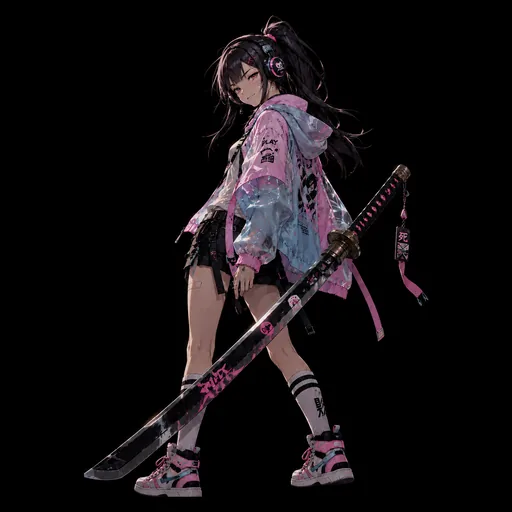
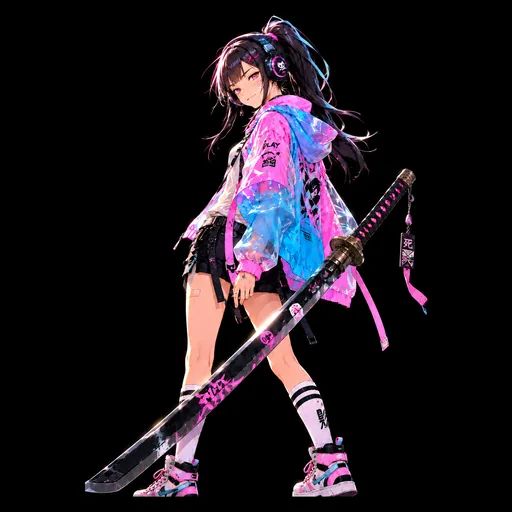
«Шип Тишины» и посветлевшая «Ая Курона» — коллекция закрыта
s09 «Шип Тишины» получил арт, у L05 «Ая Курона» заменён на светлую версию: на
прежней в тёмной карточной рамке фигура почти не читалась.

На этом арт есть у ВСЕХ 37 собираемых карт. Без него осталась одна zC0
«Перезарядка» — она обучающая, в коллекцию не попадает вовсе (noColl), и
рисовать её незачем.

Оба прошли ту же сборку, что и остальные: вписывание в квадрат по сюжету,
плато чистого чёрного по краю и рампа внутрь. Проверено счётом: худший край по
всем 74 файлам — 2/255, то есть рамки не будет ни у одной.

1158/1158, групп 15/15. Метка сборки v=9.

Changed region(s): [[0.1562, 0.0312, 0.8438, 0.9688]]

diff --git a/index.html b/index.html
@@ -29,18 +29,18 @@
 
      Стили разрезаны по темам. ПОРЯДОК ССЫЛОК ЗНАЧИМ: правила одной силы
      разрешаются по нему. Адаптив идёт последним, чтобы выигрывать всегда. -->
-<link rel="stylesheet" href="css/01-base.css?v=8">
-  <link rel="stylesheet" href="css/02-menu.css?v=8">
-  <link rel="stylesheet" href="css/03-gacha.css?v=8">
-  <link rel="stylesheet" href="css/04-cards.css?v=8">
-  <link rel="stylesheet" href="css/05-deck.css?v=8">
-  <link rel="stylesheet" href="css/06-battle.css?v=8">
-  <link rel="stylesheet" href="css/07-story.css?v=8">
-  <link rel="stylesheet" href="css/08-overlays.css?v=8">
-  <link rel="stylesheet" href="css/09-chat.css?v=8">
-  <link rel="stylesheet" href="css/10-settings.css?v=8">
-  <link rel="stylesheet" href="css/11-map.css?v=8">
-  <link rel="stylesheet" href="css/12-responsive.css?v=8">
+<link rel="stylesheet" href="css/01-base.css?v=9">
+  <link rel="stylesheet" href="css/02-menu.css?v=9">
+  <link rel="stylesheet" href="css/03-gacha.css?v=9">
+  <link rel="stylesheet" href="css/04-cards.css?v=9">
+  <link rel="stylesheet" href="css/05-deck.css?v=9">
+  <link rel="stylesheet" href="css/06-battle.css?v=9">
+  <link rel="stylesheet" href="css/07-story.css?v=9">
+  <link rel="stylesheet" href="css/08-overlays.css?v=9">
+  <link rel="stylesheet" href="css/09-chat.css?v=9">
+  <link rel="stylesheet" href="css/10-settings.css?v=9">
+  <link rel="stylesheet" href="css/11-map.css?v=9">
+  <link rel="stylesheet" href="css/12-responsive.css?v=9">
 </head>
 <body>
 
@@ -308,20 +308,20 @@
 <!-- Скрипт разрезан по темам. ПОРЯДОК ЗНАЧИМ: обычные скрипты выполняются
      подряд и вместе дают ровно тот порядок, что был в одном файле.
      Запуск идёт последним. -->
-<script src="js/01-core.js?v=8"></script>
-<script src="js/02-data.js?v=8"></script>
-<script src="js/03-fx.js?v=8"></script>
-<script src="js/04-state.js?v=8"></script>
-<script src="js/05-story.js?v=8"></script>
-<script src="js/06-menu.js?v=8"></script>
-<script src="js/07-cards.js?v=8"></script>
-<script src="js/08-collection.js?v=8"></script>
-<script src="js/09-chat.js?v=8"></script>
-<script src="js/10-rules.js?v=8"></script>
-<script src="js/11-battle.js?v=8"></script>
-<script src="js/12-training.js?v=8"></script>
-<script src="js/13-map.js?v=8"></script>
-<script src="js/14-ui.js?v=8"></script>
-<script src="js/15-boot.js?v=8"></script>
+<script src="js/01-core.js?v=9"></script>
+<script src="js/02-data.js?v=9"></script>
+<script src="js/03-fx.js?v=9"></script>
+<script src="js/04-state.js?v=9"></script>
+<script src="js/05-story.js?v=9"></script>
+<script src="js/06-menu.js?v=9"></script>
+<script src="js/07-cards.js?v=9"></script>
+<script src="js/08-collection.js?v=9"></script>
+<script src="js/09-chat.js?v=9"></script>
+<script src="js/10-rules.js?v=9"></script>
+<script src="js/11-battle.js?v=9"></script>
+<script src="js/12-training.js?v=9"></script>
+<script src="js/13-map.js?v=9"></script>
+<script src="js/14-ui.js?v=9"></script>
+<script src="js/15-boot.js?v=9"></script>
 </body>
 </html>

diff --git a/js/07-cards.js b/js/07-cards.js
@@ -70,11 +70,12 @@ const CARD_ART=new Set([
   'c01','c02','c03','c05','c08','c09','c11','s03','s04',
   /* третья партия, 2 сентября 2026 — тир ФРАКЦИЯ целиком */
   'c04','c06','c07','c10','c12','c13','s05','s06','s07',
-  /* четвёртая партия, 3 сентября 2026 — тир ЛЕГЕНДА целиком, «Сердце Бездны»
-     и секретный «Билет в Один Конец».
-     Без арта остались двое: s09 «Шип Тишины» и zC0 «Перезарядка» — последняя
-     обучающая, в коллекцию не попадает вовсе (noColl). */
-  'L01','L02','L03','L04','L05','L06','s08','X01',
+  /* четвёртая партия, 3 сентября 2026 — тир ЛЕГЕНДА целиком, оба эха и
+     секретный «Билет в Один Конец».
+     На этом КОЛЛЕКЦИЯ ЗАКРЫТА: арт есть у всех 37 собираемых карт. Без него
+     осталась одна zC0 «Перезарядка» — она обучающая, в коллекцию не попадает
+     вовсе (noColl), и рисовать её незачем. */
+  'L01','L02','L03','L04','L05','L06','s08','s09','X01',
 ]);
 function spellIcon(c){return{dmg:'boom',healHero:'heal',healAll:'heal',draw:'card',buff:'up',buffAll:'up',aoe:'boom',weaken:'skull',drain:'skull',mana:'up'}[c.eff.k]||'boom'}
 

diff --git a/tools/art_cards.py b/tools/art_cards.py
@@ -57,6 +57,7 @@ MAP = {
     'L05': 'KURONA.png',
     'L06': 'VESTA.png',
     's08': 'HEARTOFABYSS.png',
+    's09': 'STING.png',
     'X01': '1WAYTICKET.png',
 }
 

diff --git a/CLAUDE.md b/CLAUDE.md
@@ -117,7 +117,7 @@ Telegram кеш ещё упрямее.
 
 ### Чем проверять
 
-- `tools/_tests.js` — 1157 проверок, 15 групп, включая одиннадцать боёв
+- `tools/_tests.js` — 1158 проверок, 15 групп, включая одиннадцать боёв
   автоигроком и сверку КАЖДОГО обещания карты с настоящими правилами, за обе
   стороны (группа 15). Отчёт печатает `групп: 15/15`: исключение обрывает
   прогон целиком, и без этой строки обрыв читался как успех. Гонять в браузере:
